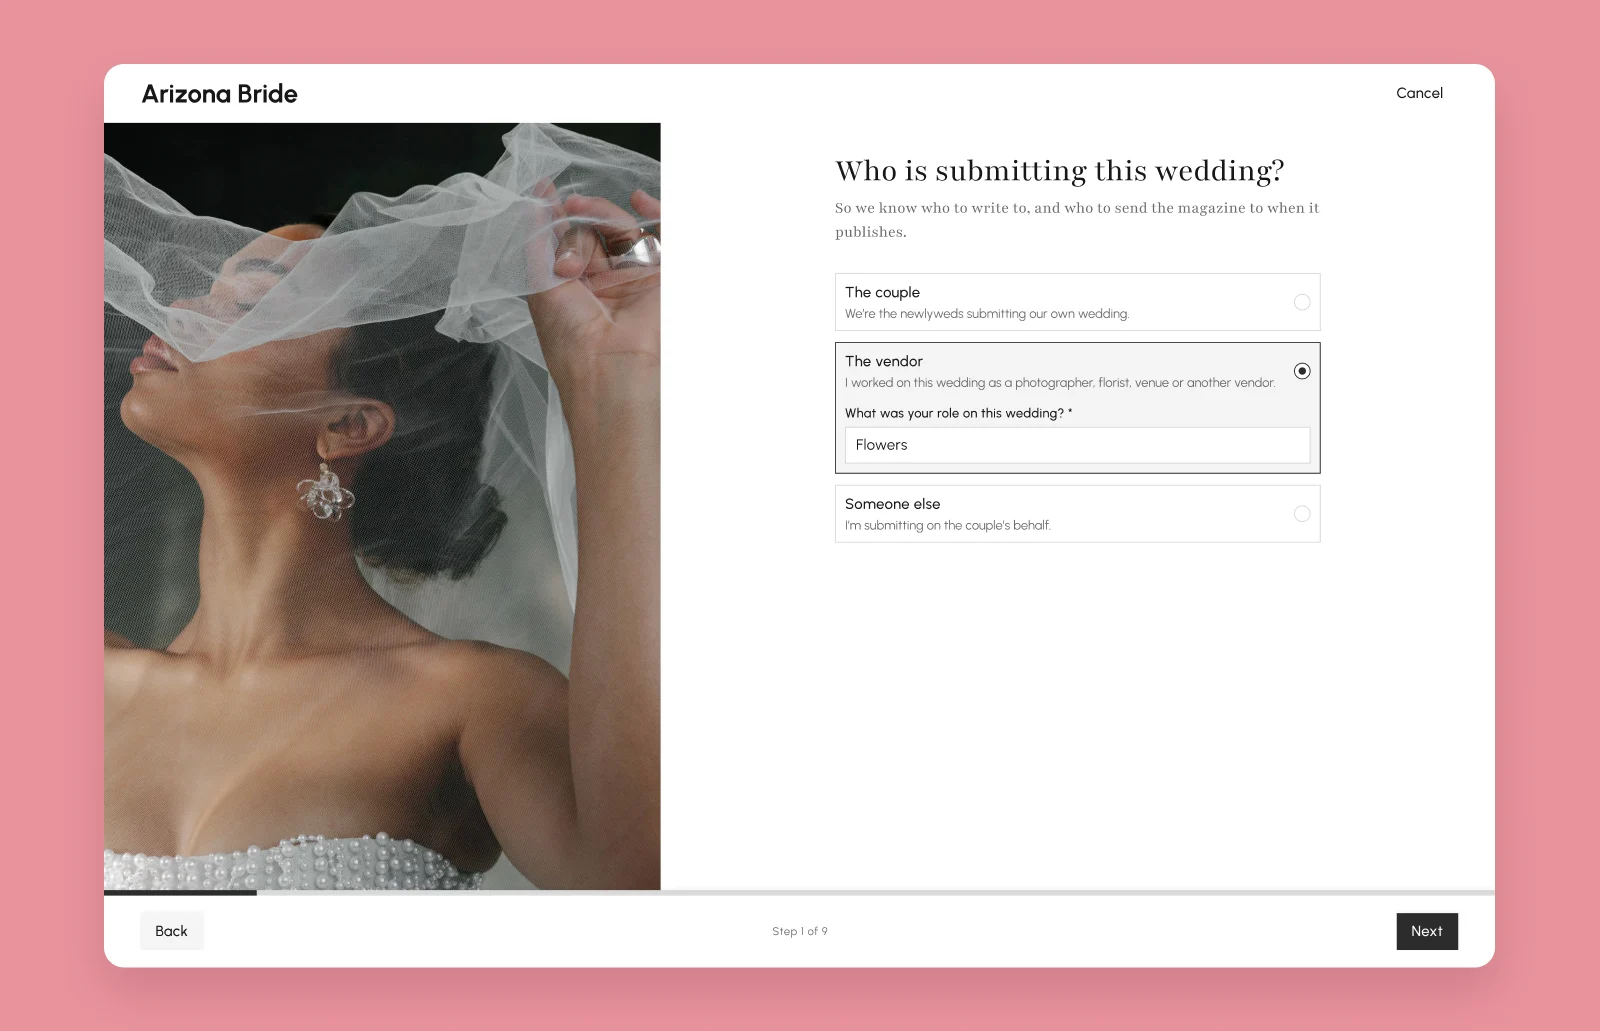
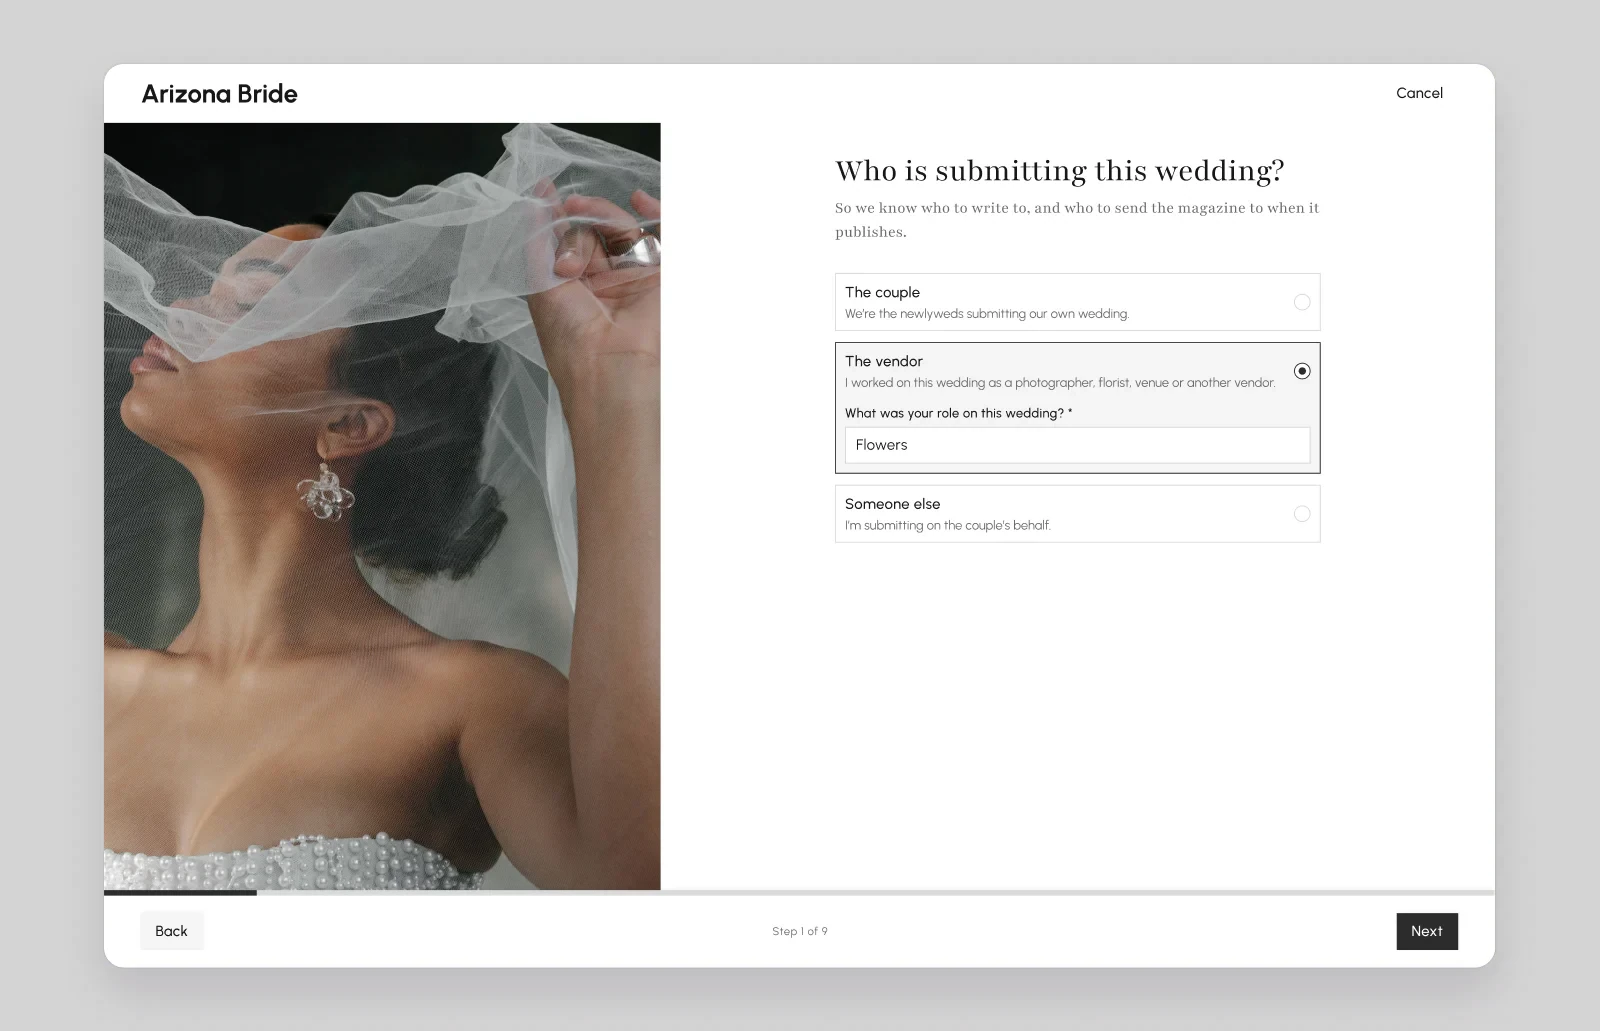
style(work): put real wedding images on a gray plate

Changed region(s): [[0.0, 0.0, 1.0, 1.0]]

diff --git a/src/features/doc/components/real-wedding-submissions-cover.tsx b/src/features/doc/components/real-wedding-submissions-cover.tsx
@@ -11,14 +11,15 @@ import { useCoverSteps } from "./use-cover-steps"
 
 /*
  * The cover draws the wizard, not the site, so it keeps Iron Diamond's own
- * ink, warm grays and blush in both of the site's themes.
+ * ink and warm grays in both of the site's themes, on the same gray plate as
+ * the case study's screenshots.
  */
 const INK = "#191717"
 const MUTED = "#6b6b6b"
 const PRIMARY = "#2c2c2c"
 const INPUT = "#d9d9d9"
-const PLATE = "#e9939e"
-const DOTS = "#fbebf0"
+const PLATE = "#d4d4d4"
+const DOTS = "#f5f5f5"
 
 /** The wizard's own pairing: Playfair headings over Urbanist. */
 const playfair = Playfair({ subsets: ["latin"], weight: ["400"] })
